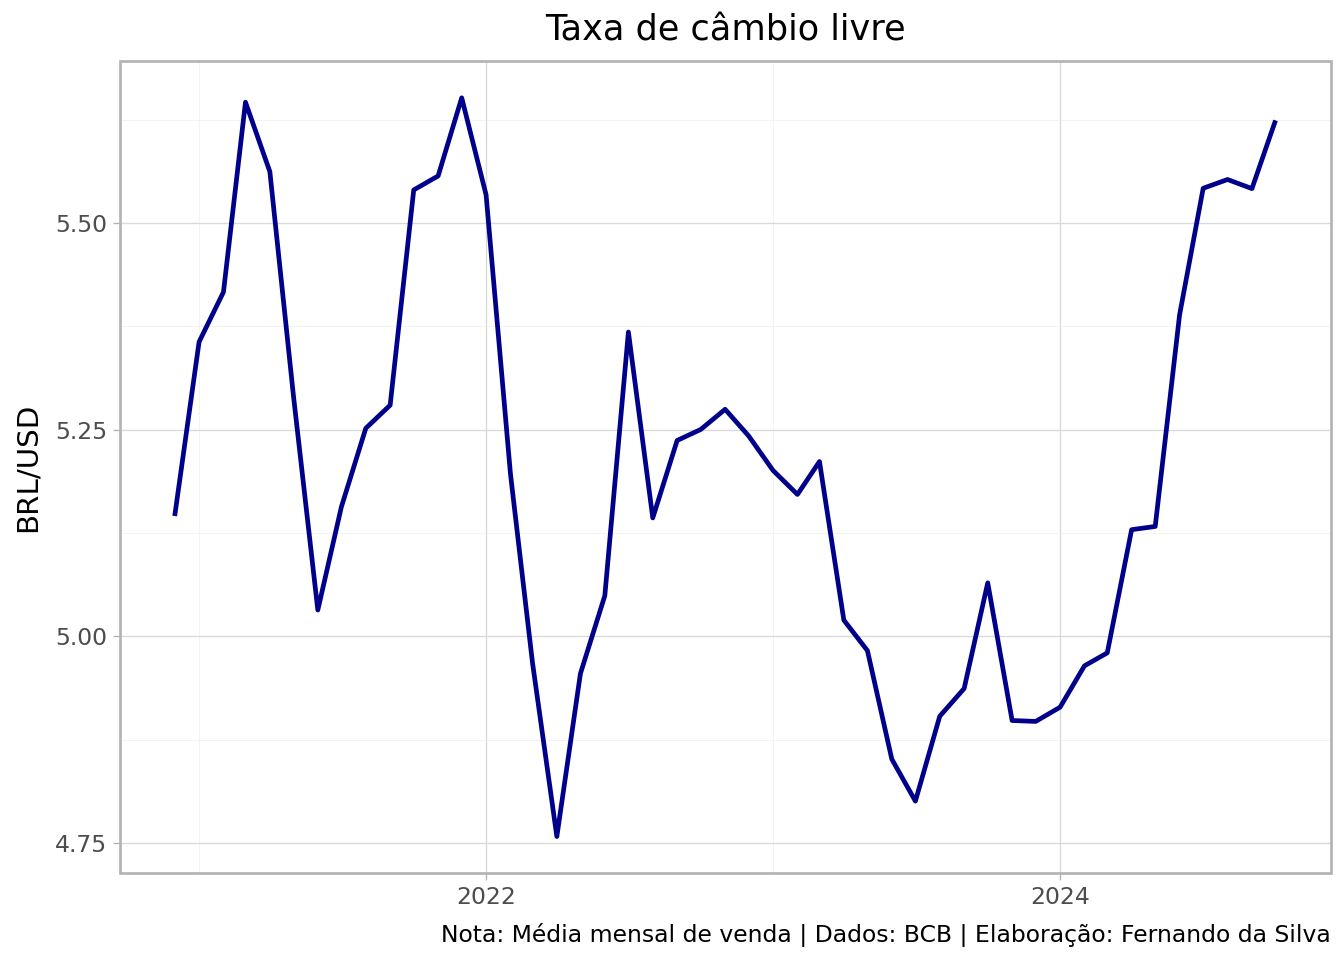
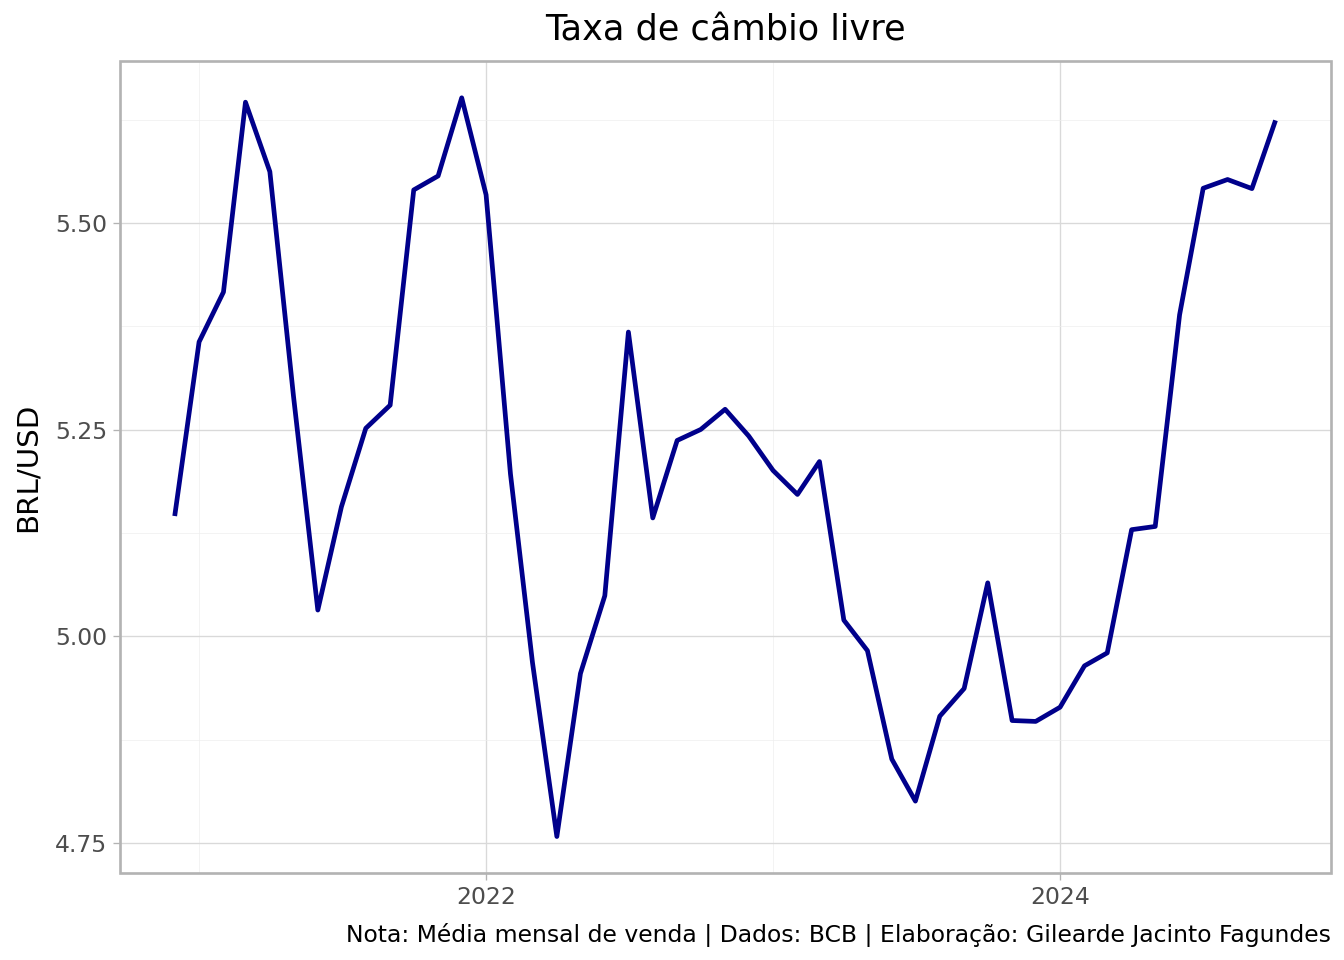
Atualização de relatorio de dashboard

Changed region(s): [[0.25, 0.9688, 1.0, 1.0]]

diff --git a/Programacao_Python_2/relatorio/relatorio.html b/Programacao_Python_2/relatorio/relatorio.html
@@ -106,8 +106,8 @@ pre > code.sourceCode > span > a:first-child::before { text-decoration: underlin
 </header>
 
 
-<p>Neste relatório mostro como utilizar o Python para obter dados públicos da taxa de câmbio (BRL/USD, livre, média mensal de venda) através da API do Banco Central do Brasil e produzir um gráfico com sua evolução recente. ## Bibliotecas Primeiro é necessário importar as bibliotecas de Python (e instalar caso não estejam instalados ainda) para usar as funções úteis de coleta, tratamento e visualização de dados:</p>
-<div id="e81b0098" class="cell" data-execution_count="1">
+<p>API do Banco Central do Brasil e produzir um gráfico com sua evolução recente. :</p>
+<div id="b3d245be" class="cell" data-execution_count="1">
 <div class="sourceCode cell-code" id="cb1"><pre class="sourceCode python code-with-copy"><code class="sourceCode python"><span id="cb1-1"><a href="#cb1-1" aria-hidden="true" tabindex="-1"></a><span class="co"># Importar bibliotecas</span></span>
 <span id="cb1-2"><a href="#cb1-2" aria-hidden="true" tabindex="-1"></a><span class="im">from</span> bcb <span class="im">import</span> sgs</span>
 <span id="cb1-3"><a href="#cb1-3" aria-hidden="true" tabindex="-1"></a><span class="im">import</span> pandas <span class="im">as</span> pd</span>
@@ -116,7 +116,7 @@ pre > code.sourceCode > span > a:first-child::before { text-decoration: underlin
 <section id="dados" class="level2">
 <h2 class="anchored" data-anchor-id="dados">Dados</h2>
 <p>Em seguida é necessário identificar o código da série temporal desejada no sistema SGS/BCB e utilizar este código para obter os dados com a bibliotecas <code>python-bcb</code>:</p>
-<div id="cc6c2d7c" class="cell" data-execution_count="2">
+<div id="df58a128" class="cell" data-execution_count="2">
 <div class="sourceCode cell-code" id="cb2"><pre class="sourceCode python code-with-copy"><code class="sourceCode python"><span id="cb2-1"><a href="#cb2-1" aria-hidden="true" tabindex="-1"></a><span class="co"># Coleta de dados</span></span>
 <span id="cb2-2"><a href="#cb2-2" aria-hidden="true" tabindex="-1"></a>dados <span class="op">=</span> sgs.get(</span>
 <span id="cb2-3"><a href="#cb2-3" aria-hidden="true" tabindex="-1"></a>    codes <span class="op">=</span> {<span class="st">"cambio"</span>: <span class="dv">3698</span>},</span>
@@ -124,7 +124,7 @@ pre > code.sourceCode > span > a:first-child::before { text-decoration: underlin
 <span id="cb2-5"><a href="#cb2-5" aria-hidden="true" tabindex="-1"></a>    )</span></code><button title="Copy to Clipboard" class="code-copy-button"><i class="bi"></i></button></pre></div>
 </div>
 <p>Os dados brutos obtidos no SGS/BCB são exibidos abaixo:</p>
-<div id="831b062a" class="cell" data-execution_count="3">
+<div id="cece406c" class="cell" data-execution_count="3">
 <div class="sourceCode cell-code" id="cb3"><pre class="sourceCode python code-with-copy"><code class="sourceCode python"><span id="cb3-1"><a href="#cb3-1" aria-hidden="true" tabindex="-1"></a>dados.tail()</span></code><button title="Copy to Clipboard" class="code-copy-button"><i class="bi"></i></button></pre></div>
 <div class="cell-output cell-output-display" data-execution_count="3">
 <div>
@@ -169,14 +169,14 @@ pre > code.sourceCode > span > a:first-child::before { text-decoration: underlin
 </div>
 </div>
 <p>Abaixo criamos uma colunna adicional com a informação do índice da tabela:</p>
-<div id="775bef05" class="cell" data-execution_count="4">
+<div id="737fd8b0" class="cell" data-execution_count="4">
 <div class="sourceCode cell-code" id="cb4"><pre class="sourceCode python code-with-copy"><code class="sourceCode python"><span id="cb4-1"><a href="#cb4-1" aria-hidden="true" tabindex="-1"></a>dados <span class="op">=</span> dados.assign(data <span class="op">=</span> dados.index)</span></code><button title="Copy to Clipboard" class="code-copy-button"><i class="bi"></i></button></pre></div>
 </div>
 </section>
 <section id="visualização-de-dados" class="level2">
 <h2 class="anchored" data-anchor-id="visualização-de-dados">Visualização de Dados</h2>
 <p>Por fim, pode ser utilizado um pacote de visualização de dados como o <code>plotnine</code> para gerar um gráfico de linha com a série da taxa de câmbio:</p>
-<div id="2ae3ccaa" class="cell" data-execution_count="5">
+<div id="752be644" class="cell" data-execution_count="5">
 <div class="sourceCode cell-code" id="cb5"><pre class="sourceCode python code-with-copy"><code class="sourceCode python"><span id="cb5-1"><a href="#cb5-1" aria-hidden="true" tabindex="-1"></a><span class="co"># Gráfico de linha</span></span>
 <span id="cb5-2"><a href="#cb5-2" aria-hidden="true" tabindex="-1"></a>chart<span class="op">=</span>p9.ggplot(data <span class="op">=</span> dados) <span class="op">+\</span></span>
 <span id="cb5-3"><a href="#cb5-3" aria-hidden="true" tabindex="-1"></a>  p9.aes(x <span class="op">=</span> <span class="st">"data"</span>, y <span class="op">=</span> <span class="st">"cambio"</span>) <span class="op">+\</span></span>
@@ -186,11 +186,11 @@ pre > code.sourceCode > span > a:first-child::before { text-decoration: underlin
 <span id="cb5-7"><a href="#cb5-7" aria-hidden="true" tabindex="-1"></a>  p9.ylab(<span class="st">"BRL/USD"</span>) <span class="op">+\</span></span>
 <span id="cb5-8"><a href="#cb5-8" aria-hidden="true" tabindex="-1"></a>  p9.xlab(<span class="st">""</span>) <span class="op">+\</span></span>
 <span id="cb5-9"><a href="#cb5-9" aria-hidden="true" tabindex="-1"></a>  p9.labs(</span>
-<span id="cb5-10"><a href="#cb5-10" aria-hidden="true" tabindex="-1"></a>    caption <span class="op">=</span> <span class="st">"Nota: Média mensal de venda | Dados: BCB | Elaboração: Fernando da Silva"</span></span>
+<span id="cb5-10"><a href="#cb5-10" aria-hidden="true" tabindex="-1"></a>    caption <span class="op">=</span> <span class="st">"Nota: Média mensal de venda | Dados: BCB | Elaboração: Gilearde Jacinto Fagundes"</span></span>
 <span id="cb5-11"><a href="#cb5-11" aria-hidden="true" tabindex="-1"></a>    ) <span class="op">+\</span></span>
 <span id="cb5-12"><a href="#cb5-12" aria-hidden="true" tabindex="-1"></a>  p9.theme_light()</span></code><button title="Copy to Clipboard" class="code-copy-button"><i class="bi"></i></button></pre></div>
 </div>
-<div id="8712e965" class="cell" data-execution_count="6">
+<div id="9594332a" class="cell" data-execution_count="6">
 <div class="sourceCode cell-code" id="cb6"><pre class="sourceCode python code-with-copy"><code class="sourceCode python"><span id="cb6-1"><a href="#cb6-1" aria-hidden="true" tabindex="-1"></a>chart</span></code><button title="Copy to Clipboard" class="code-copy-button"><i class="bi"></i></button></pre></div>
 <div class="cell-output cell-output-display">
 <div>
